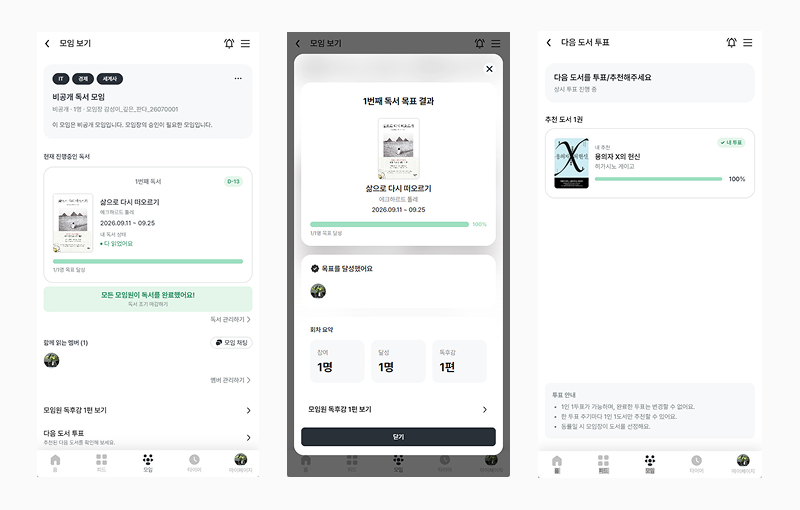
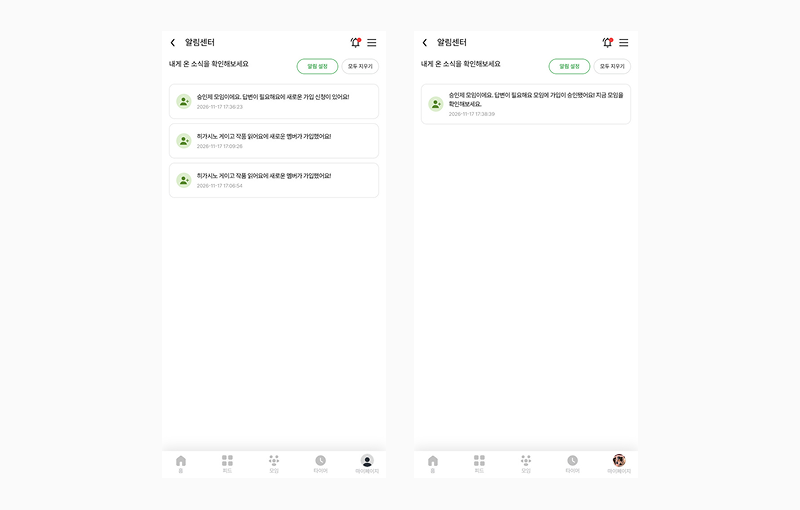
fix project image and body

diff --git a/src/assets/data/Datas.ts b/src/assets/data/Datas.ts
@@ -106,18 +106,17 @@ export const projectData: Project[] = [
             thumbSrc: "detail1",
           },
           {
-            title: "모임 탈퇴 시 개인 기록과 모임 활동 분리",
-            problem: "회원 상태만 탈퇴로 변경하면 사용자의 투표와 추천이 모임에 남을 수 있었습니다. 반대로 모임에  모임 활동을 정리하면서 개인 독후감까지 삭제하면 사용자의 기록이 사라질 수 있었습니다.",
-            solution: "서버에서 활성 계정의 일반 모임원인지 확인하고 모임장의 자진 탈퇴는 제외했습니다. 회원 관계를 삭제 상태로 변경한 뒤 투표와 추천 및 회차 참여 연결을 같은 트랜잭션에서 정리했습니다. 화면에서는 탈퇴 전 정리되는 활동과 보존되는 개인 기록을 안내하고 요청 중 화면 이동을 막았습니다.",
-            result: "개인 독후감 원본은 보존하면서 모임 활동을 정리하도록 했습니다. 재가입 시에는 탈퇴 상태와 차단 여부를 함께 확인해 재가입이 차단되지 않은 자진 탈퇴자는 다시 가입할 수 있도록 했습니다.",
-            thumbSrc: "detail3",
-          },
-          {
             title: "모임 가입 상태에 따른 알림 연동",
             problem: "모임 가입은 신청자와 모임장의 처리가 각각 필요한 과정입니다. 신청자는 승인이나 거절 결과를 알아야 하고 모임장은 새로운 가입 신청이나 초대 수락 여부를 확인할 수 있어야 했습니다.",
             solution: "가입 신청과 승인·거절 및 초대 수락 처리에 공통 알림 서비스를 연결했습니다. 처리 상황에 따라 알림을 받을 사용자와 알림 유형을 구분하고 모임 정보를 함께 전달하도록 구성했습니다.",
             result: "가입 신청과 처리 결과를 관련 사용자에게 알릴 수 있도록 했습니다. 초대를 수락한 경우에도 모임장이 신규 모임원의 가입을 확인할 수 있도록 했습니다.",
-            thumbSrc: "detail5",
+            thumbSrc: "detail3",
+          },
+          {
+            title: "모임 탈퇴 시 개인 기록과 모임 활동 분리",
+            problem: "회원 상태만 탈퇴로 변경하면 사용자의 투표와 추천이 모임에 남을 수 있었습니다. 반대로 모임에  모임 활동을 정리하면서 개인 독후감까지 삭제하면 사용자의 기록이 사라질 수 있었습니다.",
+            solution: "서버에서 활성 계정의 일반 모임원인지 확인하고 모임장의 자진 탈퇴는 제외했습니다. 회원 관계를 삭제 상태로 변경한 뒤 투표와 추천 및 회차 참여 연결을 같은 트랜잭션에서 정리했습니다. 화면에서는 탈퇴 전 정리되는 활동과 보존되는 개인 기록을 안내하고 요청 중 화면 이동을 막았습니다.",
+            result: "개인 독후감 원본은 보존하면서 모임 활동을 정리하도록 했습니다. 재가입 시에는 탈퇴 상태와 차단 여부를 함께 확인해 재가입이 차단되지 않은 자진 탈퇴자는 다시 가입할 수 있도록 했습니다.",
           },
           {
             title: "댓글 삭제 시 답글 관계와 화면 상태 유지",
